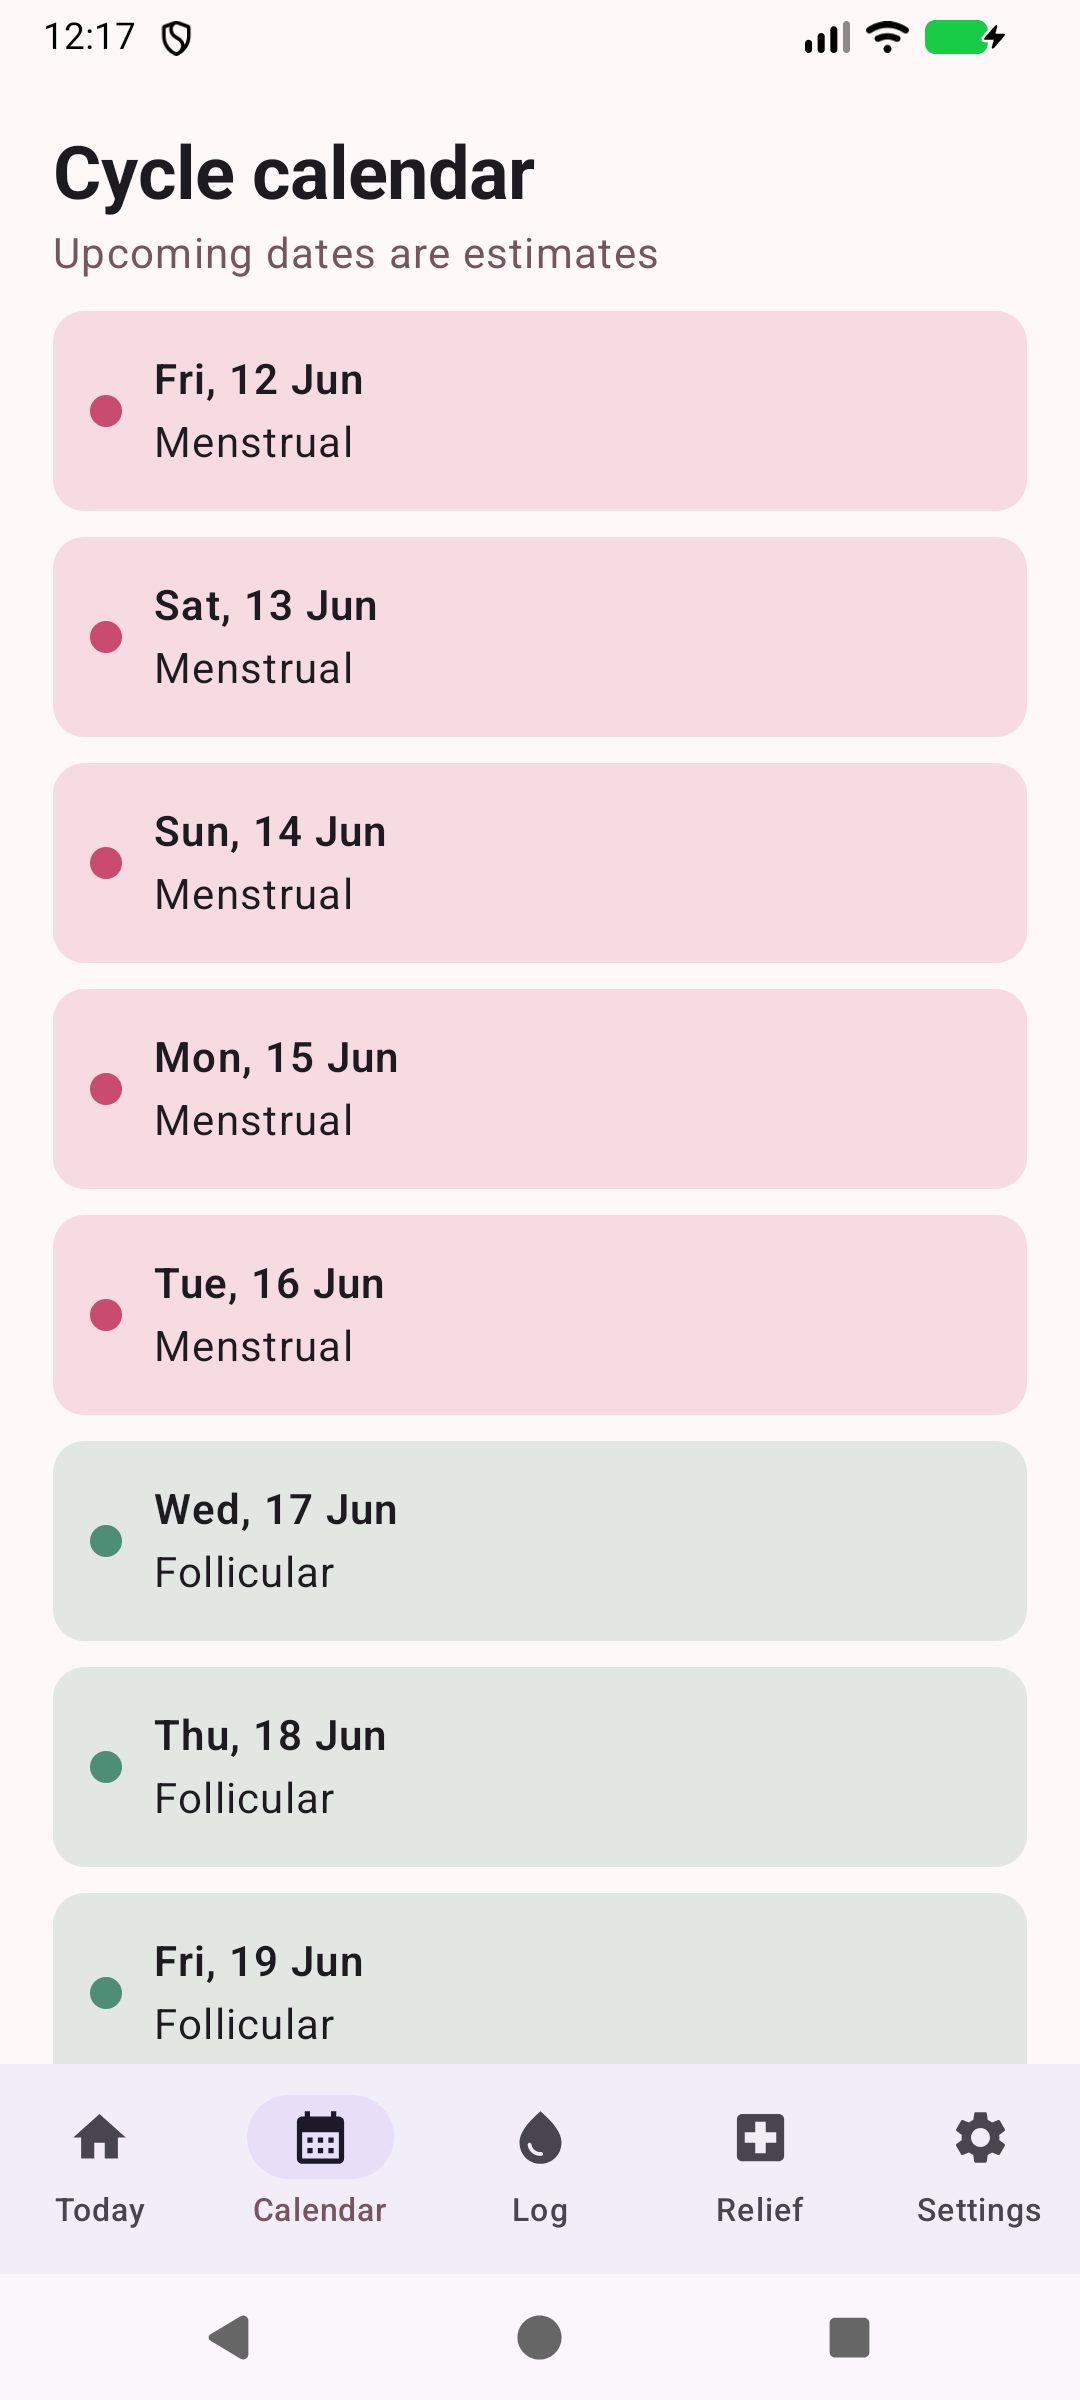
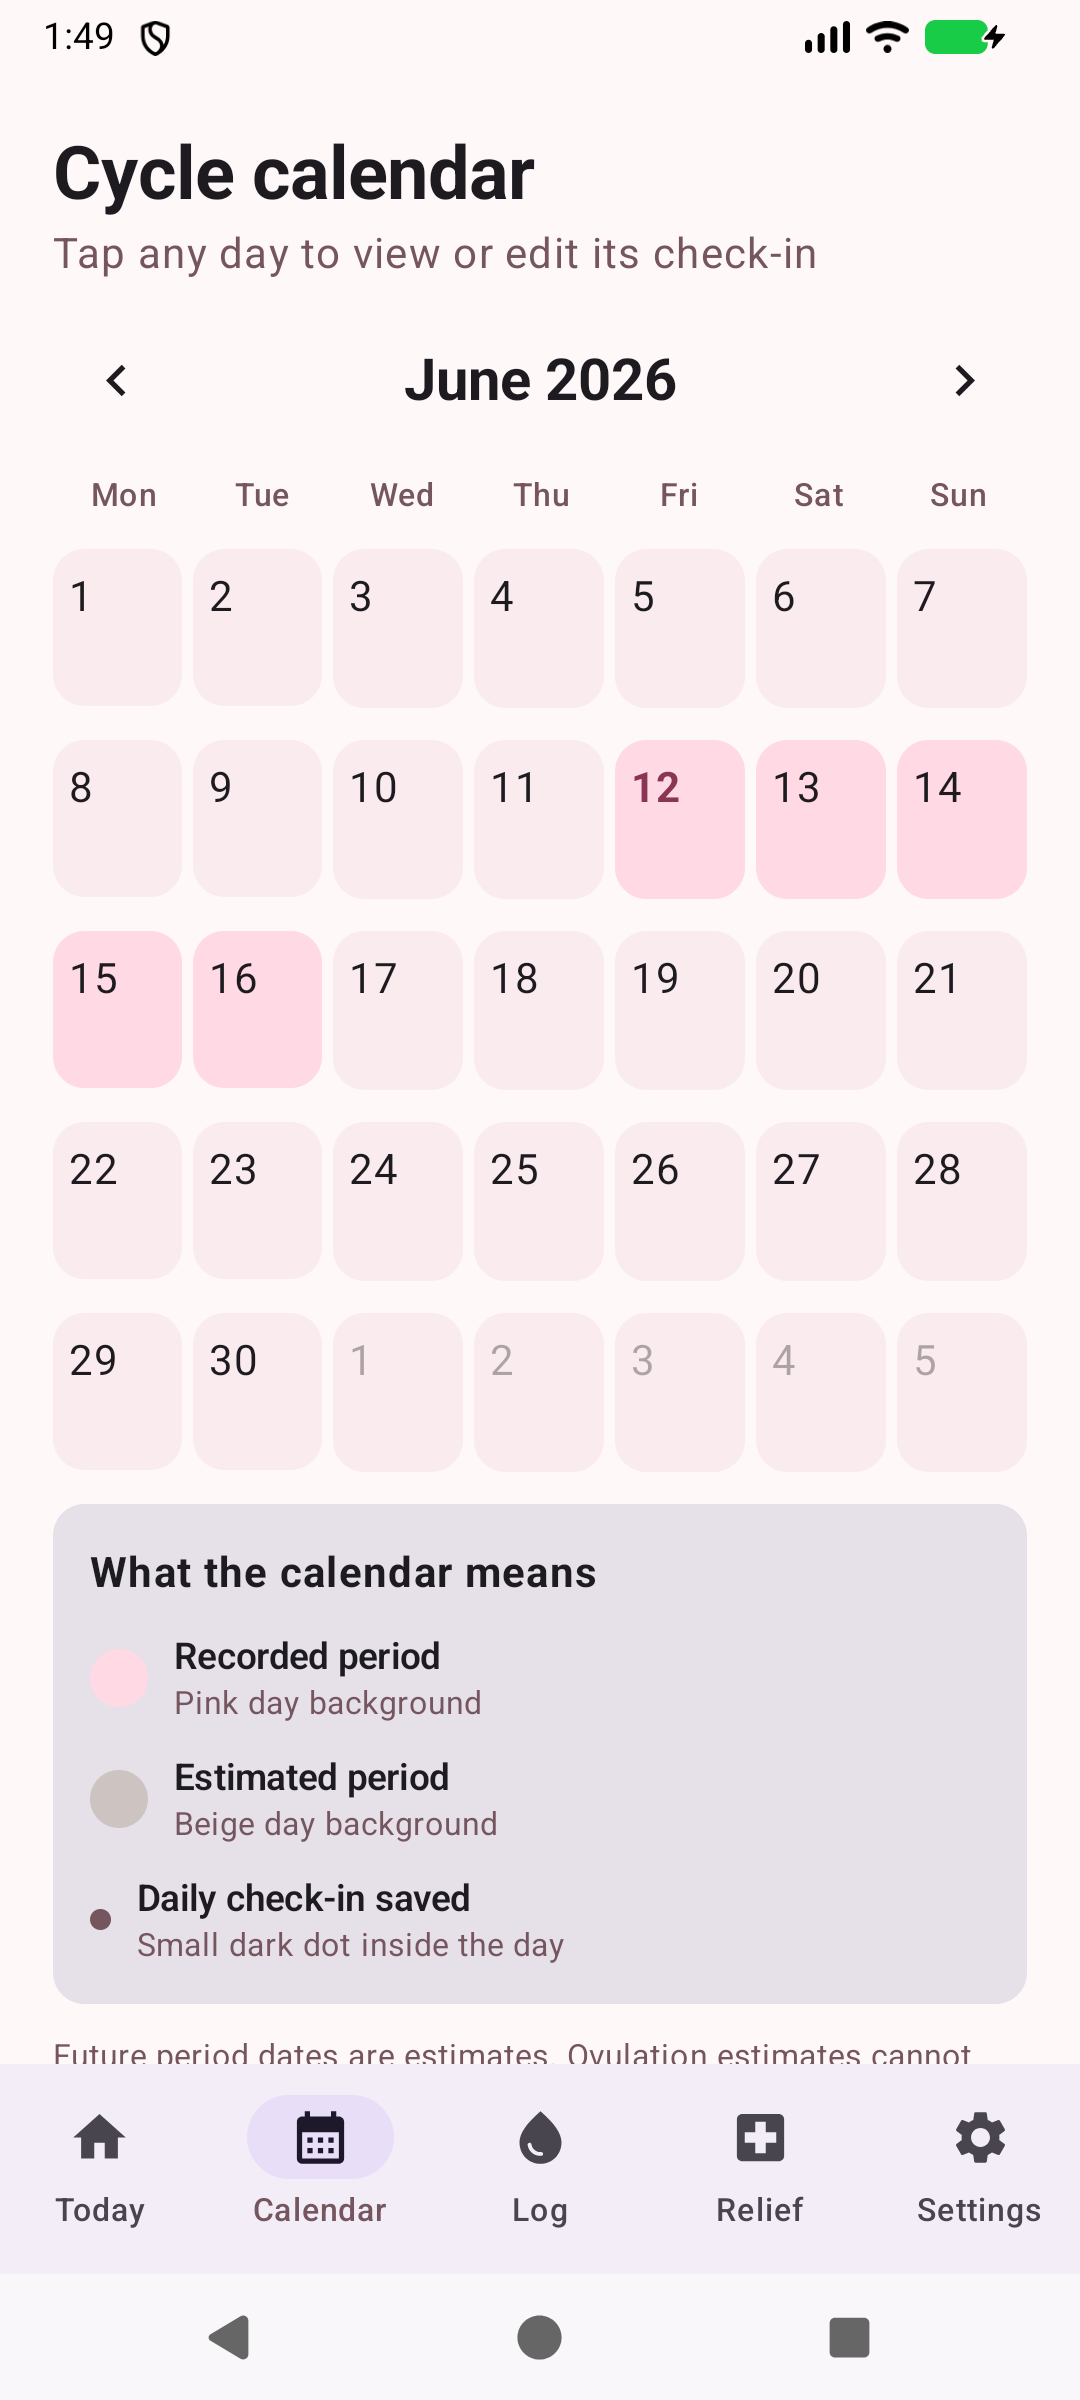
Restore relief checklist and refresh screenshots

Changed region(s): [[0.0306, 0.0938, 0.9778, 0.875], [0.0611, 0.0, 0.1833, 0.0312]]

diff --git a/app/src/main/java/com/himu/cyclecare/ui/CycleCareApp.kt b/app/src/main/java/com/himu/cyclecare/ui/CycleCareApp.kt
@@ -17,7 +17,6 @@ import androidx.compose.foundation.layout.padding
 import androidx.compose.foundation.layout.size
 import androidx.compose.foundation.lazy.LazyColumn
 import androidx.compose.foundation.lazy.items
-import androidx.compose.foundation.lazy.rememberLazyListState
 import androidx.compose.foundation.shape.CircleShape
 import androidx.compose.material.icons.automirrored.filled.KeyboardArrowLeft
 import androidx.compose.material.icons.automirrored.filled.KeyboardArrowRight
@@ -52,7 +51,6 @@ import androidx.compose.material3.TextButton
 import androidx.compose.runtime.Composable
 import androidx.compose.runtime.LaunchedEffect
 import androidx.compose.runtime.getValue
-import androidx.compose.runtime.mutableIntStateOf
 import androidx.compose.runtime.mutableStateOf
 import androidx.compose.runtime.remember
 import androidx.compose.runtime.rememberCoroutineScope
@@ -641,21 +639,9 @@ private fun ReliefScreen() {
         "NSAID allergy or asthma reaction",
     )
     var selected by remember { mutableStateOf(setOf<String>()) }
-    var selectionChanges by remember { mutableIntStateOf(0) }
-    val listState = rememberLazyListState()
-    val safetyResultIndex = 4 + contraindications.size
-    val updateSelection: (Set<String>) -> Unit = { updated ->
-        selected = updated
-        selectionChanges += 1
-    }
-
-    LaunchedEffect(selectionChanges) {
-        if (selectionChanges > 0) listState.animateScrollToItem(safetyResultIndex)
-    }
 
     LazyColumn(
         modifier = Modifier.fillMaxSize(),
-        state = listState,
         contentPadding = PaddingValues(20.dp),
         verticalArrangement = Arrangement.spacedBy(14.dp),
     ) {
@@ -676,14 +662,14 @@ private fun ReliefScreen() {
         items(contraindications) { item ->
             Row(
                 Modifier.fillMaxWidth().clickable {
-                    updateSelection(if (item in selected) selected - item else selected + item)
+                    selected = if (item in selected) selected - item else selected + item
                 },
                 verticalAlignment = Alignment.CenterVertically,
             ) {
                 Checkbox(
                     checked = item in selected,
                     onCheckedChange = { checked ->
-                        updateSelection(if (checked) selected + item else selected - item)
+                        selected = if (checked) selected + item else selected - item
                     },
                 )
                 Text(item)
